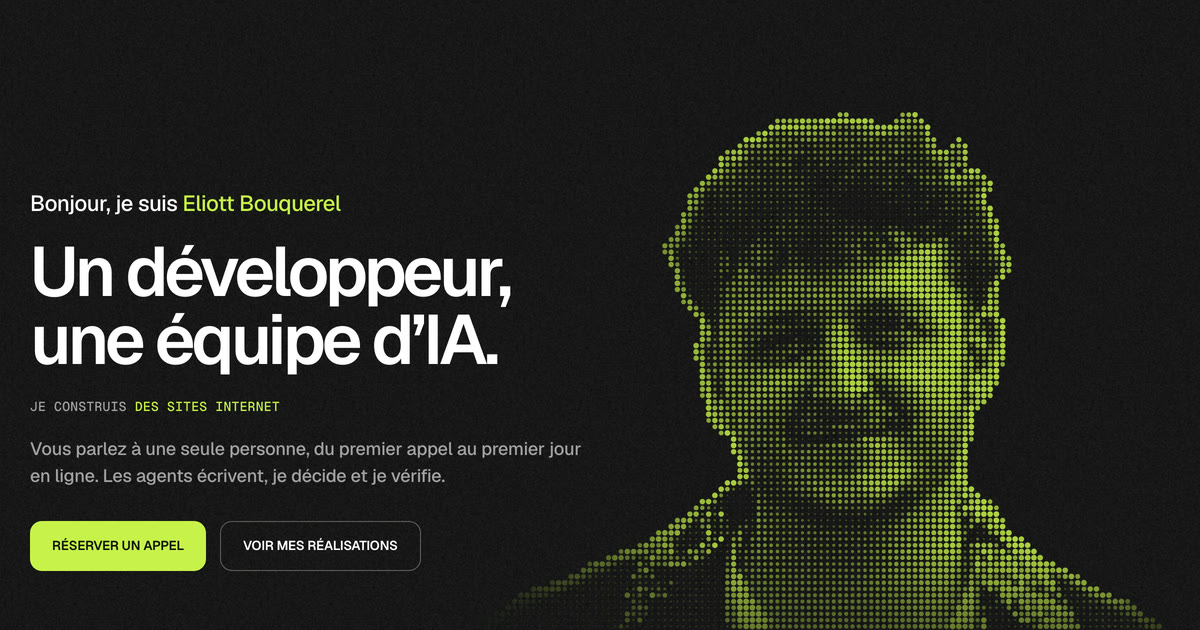
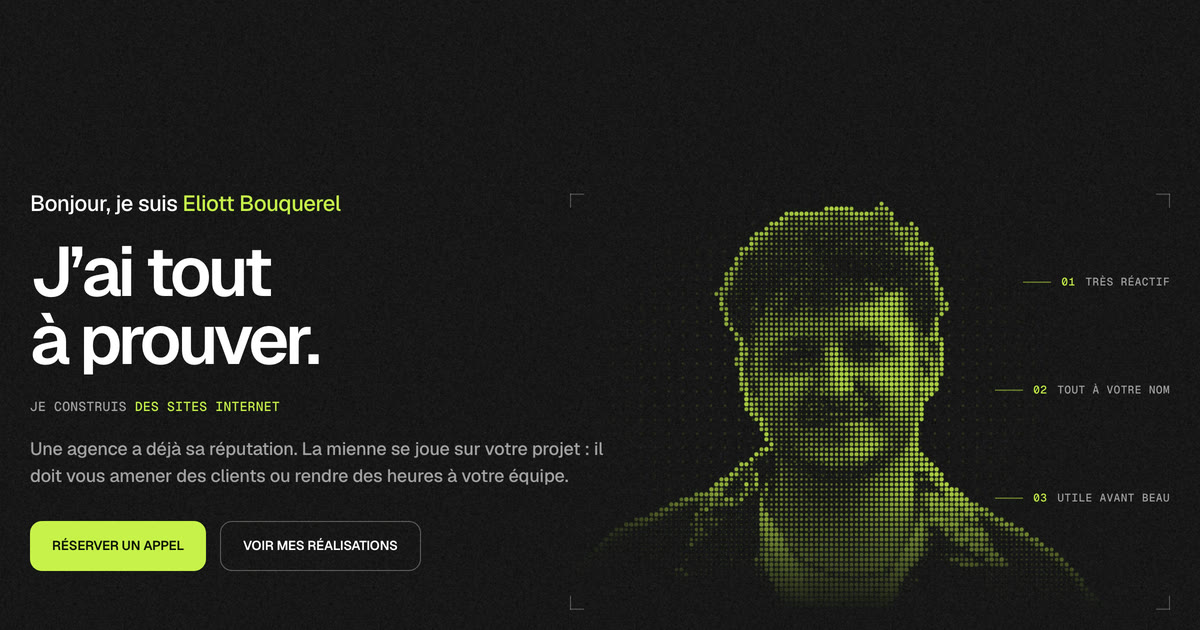
📝 Titrer le héros « J'ai tout à prouver »
Le titre et la description ne parlent plus de l'IA : contraste avec
l'agence, puis le résultat client. Repères : très réactif, tout à
votre nom, utile avant beau.

diff --git a/src/content/home.ts b/src/content/home.ts
@@ -55,20 +55,22 @@ const JOURS_BUREAU = SEMAINE.map(({ jour, tache, taches }) => {
  * chiffre ce qu'une agence facture à côté du mien, source écrite.
  */
 /*
- * LE H1 DE L'ACCUEIL depuis le 2026-11-24 (version 2 « trame géante ») :
- * comment Eliott travaille, en deux lignes.
+ * LE H1 DE L'ACCUEIL depuis le 2026-11-24 : la phrase d'Eliott (« moi j'ai
+ * tout à prouver, une agence non », `vault/wiki/business/copy-matiere-brute.md`).
+ * Effet challenger : le manque de notoriété devient la raison de mieux faire.
+ * Le métier est dit juste dessous (« Je construis… »), l'IA n'est plus en titre.
  */
-const LIGNES_TITRE = ["Un développeur,", "une équipe d’IA."] as const;
+const LIGNES_TITRE = ["J’ai tout", "à prouver."] as const;
 const TITRE_ACCUEIL = LIGNES_TITRE.join(" ");
 
 /**
- * Pourquoi lui, en trois lignes (retour d'Eliott du 2026-11-24 : « trop
- * long, même moi je le lis pas » ; « un seul interlocuteur n'est pas un
- * argument » ; garder ce qui se vérifie : réactivité, qualité d'agence, prix
- * correct). Aucun prix chiffré.
+ * Pourquoi lui (retours d'Eliott du 2026-11-24 : ne pas parler de l'IA à
+ * chaque ligne, dire un truc vrai et pas banal, ni « un seul interlocuteur »
+ * ni « prix corrects »). Le contraste avec l'agence, puis le résultat que veut
+ * un dirigeant. Aucun chiffre promis.
  */
 const COMMENT =
-  "Mes agents d’IA écrivent le code, je teste tout avant la mise en ligne. La qualité d’une agence, pour un prix correct. Et je réponds vite, essayez.";
+  "Une agence a déjà sa réputation. La mienne se joue sur votre projet : il doit vous amener des clients ou rendre des heures à votre équipe.";
 
 
 /**
@@ -92,7 +94,7 @@ export const homeContent: HomeContent = {
     titleLines: LIGNES_TITRE,
     buildPrefix: "Je construis",
     buildItems: ["des sites internet", "des logiciels métier", "des automatisations IA"],
-    faceNotes: ["Très réactif", "Qualité d’agence", "Prix corrects"],
+    faceNotes: ["Très réactif", "Tout à votre nom", "Utile avant beau"],
     subtitle: COMMENT,
     subtitleParagraphs: [{ text: COMMENT }],
     offerLink: { label: "Voir mes réalisations", href: "/realisations" },
@@ -478,7 +480,7 @@ export const homeContent: HomeContent = {
     // Mot-clé en tête, marque en fin.
     title: "Développeur à Caen : sites, logiciels et IA · Eliott Bouquerel",
     description:
-      "Sites, logiciels métier et automatisations IA pour TPE et PME. Un développeur, une équipe d’IA, un seul interlocuteur. Basé à Caen, en visio partout.",
+      "Sites, logiciels métier et automatisations IA pour TPE et PME. J’ai tout à prouver : votre projet doit vous amener des clients. Caen et visio.",
     ogImage: {
       src: "/images/og.jpg",
       alt: "Eliott Bouquerel",
